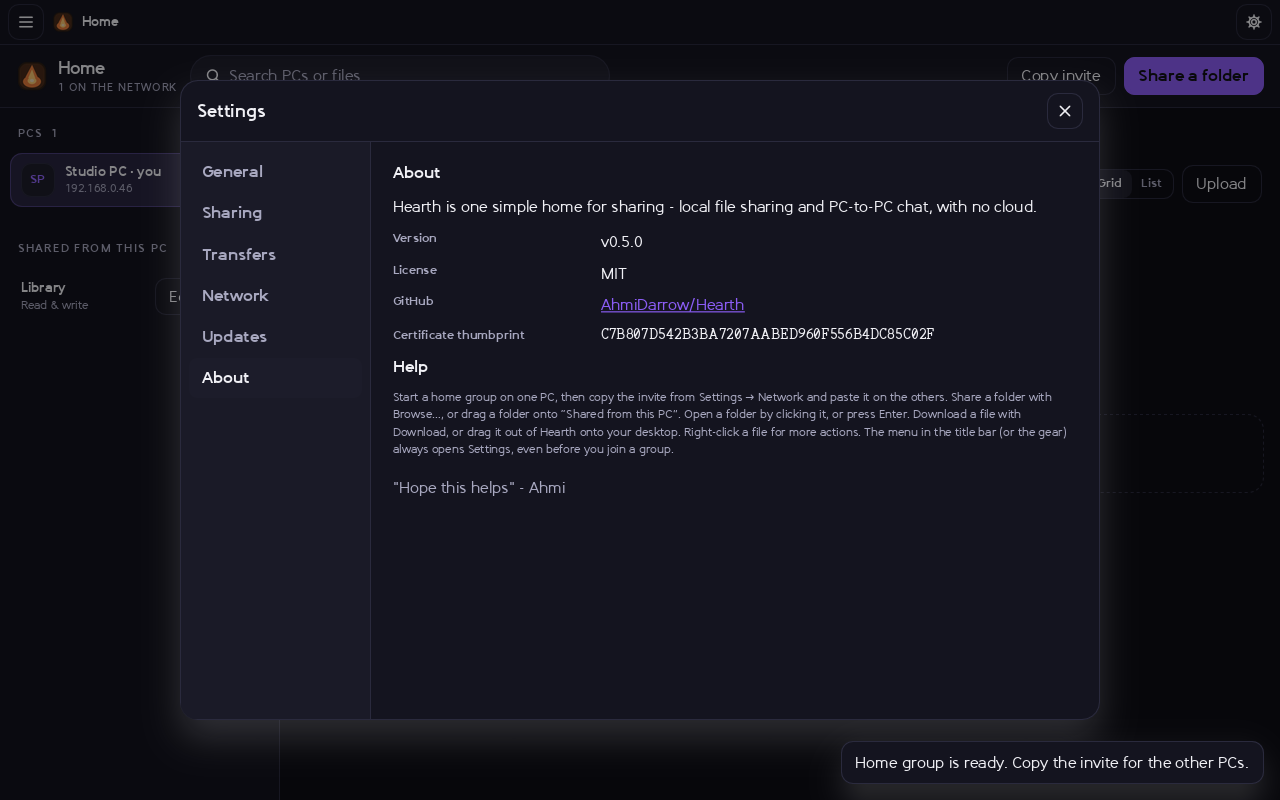
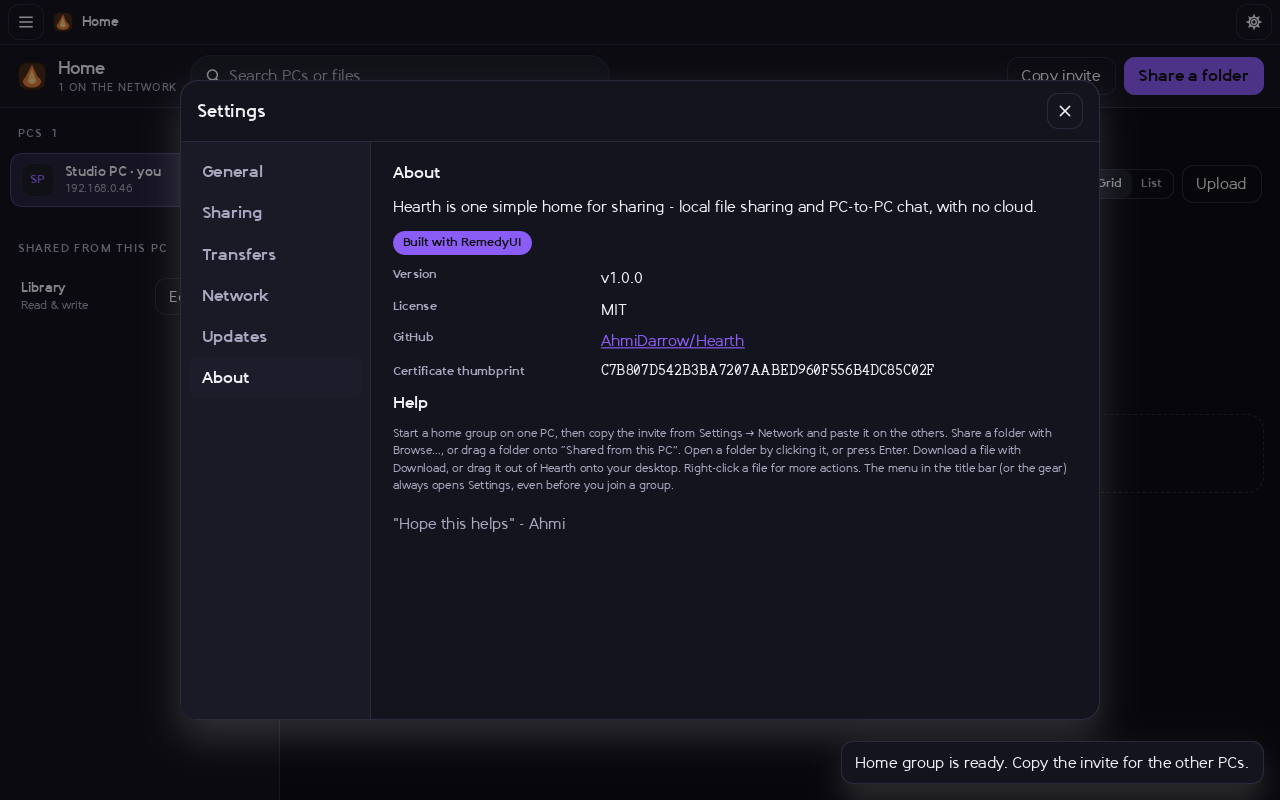
README for Hearth 1.0, and a Built with RemedyUI badge on it and in About
The README described the Python app: a WebView2 window, PyInstaller, running from source in
a browser. It now says what 1.0 is (the native program on RemedyUI, with its own section and
badge), how Defender treats the 0.x builds and what to do when it removes one, how 0.x
updates to 1.0, and how to build and release from rust/. Its two pictures are 1.0's.

Settings, About shows the same badge, in all eleven languages.

Changed region(s): [[0.2812, 0.2812, 0.8438, 0.625]]

diff --git a/rust/hearth/src/look.rs b/rust/hearth/src/look.rs
@@ -567,6 +567,13 @@ pub fn sheet(t: &Theme) -> StyleSheet {
         p().padding(sides(12.0, 18.0, 16.0, 18.0))
             .border_side(BorderEdge::Top, under(line)),
     );
+    // The "Built with RemedyUI" badge in About: a pill in the accent, as on the README.
+    rule(
+        "badge",
+        None,
+        States::NONE,
+        p().padding(pad(4.0, 10.0)).text_size(12.0).weight(700.0),
+    );
     // .bar
     rule(
         "progress",

diff --git a/rust/hearth/src/settings.rs b/rust/hearth/src/settings.rs
@@ -1032,6 +1032,8 @@ fn about(h: &H, ui: &Ui) -> El {
                 ),
             )
             .line_height(remedy_ui::style::LineHeight::Relative(1.5)),
+            // What Hearth is made with, as its page on GitHub says.
+            own_width(ui, w::badge(ui, t(ui, "Built with RemedyUI"))),
             w::column(ui)
                 .gap(10.0)
                 .fill_width()

diff --git a/README.md b/README.md
@@ -2,6 +2,8 @@
 
 [![Latest release](https://img.shields.io/github/v/release/AhmiDarrow/Hearth)](https://github.com/AhmiDarrow/Hearth/releases/latest)
 [![License: MIT](https://img.shields.io/github/license/AhmiDarrow/Hearth)](LICENSE)
+[![Platform](https://img.shields.io/badge/platform-Windows-0078D6)](https://github.com/AhmiDarrow/Hearth/releases/latest)
+[![Built with RemedyUI](https://img.shields.io/badge/built%20with-RemedyUI-8A2BE2)](#built-with-remedyui)
 
 **Hearth is one simple home for sharing** — local folder sharing and PC-to-PC chat, with no cloud and almost no setup.
 
@@ -9,29 +11,45 @@ Windows HomeGroup made it boringly easy to share Pictures and Documents across t
 
 [Download HearthSetup.exe](https://github.com/AhmiDarrow/Hearth/releases/latest/download/HearthSetup.exe) · [All releases](https://github.com/AhmiDarrow/Hearth/releases)
 
-![Two PCs sharing a folder in Hearth](docs/hearth-two-pcs.png)
+<p align="center">
+  <strong>Built with <a href="#built-with-remedyui">RemedyUI</a></strong>: one native Rust program, from the pixels to the peer protocol.
+</p>
 
-<p align="center"><em>Living-room and Office on the same hearth, browsing a shared folder.</em></p>
+![A shared folder in Hearth](docs/hearth-files-dark.png)
+
+<p align="center"><em>A shared folder on this PC: the PCs in the house on the left, its files as cards.</em></p>
 
 ![The same files view in light mode](docs/hearth-files-light.png)
 
 <p align="center"><em>Themes match RemedyAI. Light mode follows Windows, or pick a palette in Settings.</em></p>
 
+## Built with RemedyUI
+
+Since 1.0, Hearth runs on **RemedyUI**, Ahmi Darrow's own Rust UI engine. The window, the file grid, the tray, text rendering, accessibility, the eleven languages and the signed updater all come from RemedyUI, so the whole app is one native program:
+
+- **No web view, no browser engine, no Python.** The 0.x releases were a Python app that drew a local web page in an Edge WebView2 window; 1.0 replaced all of it. Setup is about 19 MB and installs a single `Hearth.exe`.
+- **The same Hearth.** Every screen is what the 0.x app drew, and 1.0 speaks the same protocol and keeps the same profile, so a house can mix 0.3, 0.4 and 1.0 PCs, and updating loses nothing.
+- **Same engine as [SecretFolder](https://github.com/AhmiDarrow/SecretFolder)**, [SecretSticky](https://github.com/AhmiDarrow/SecretSticky) and [Alex's Craft Calc](https://github.com/AhmiDarrow/Alexs-Craft-Calc).
+
+RemedyUI is not public yet.
+
 ## Features
 
-- One-click Windows installer — no Python, no scripts, no git
+- One-click Windows installer — no runtime to install, no scripts, no git
 - Create a home group or join one already on the LAN with just the password
 - Invite codes as a fallback when a second router hides broadcasts
 - Share Documents, Pictures, or any folder: **Browse…** opens the Windows folder picker, or type a path, pick a library, or drop a folder on the window
-- Edit a share at any time: rename it, **Browse…** to a new folder, switch read-only vs read & write, or unshare
+- Edit a share at any time: rename it, **Browse…** to a new folder, switch read-only vs read & write, or unshare (Hearth asks first)
 - Browse another PC, download in the background, or drag files onto a writable folder
-- Drag files out of Hearth onto the desktop or File Explorer (Windows)
+- Drag files out of Hearth onto the desktop or File Explorer
 - Transfers show speed and time remaining; **Clear downloads** (or the × on a finished item) removes completed, failed, and canceled rows without deleting files
 - Optional download and upload speed limits in Settings → Transfers (Unlimited by default)
-- House chat, stored locally on each PC
-- System tray app with an Edge WebView2 window (falls back to the browser)
+- House chat, stored locally on each PC, with private messages to one PC that is online
+- System tray app with its own native window
 - Always-visible menu and Settings (General, Sharing, Transfers, Network, Updates, About) with immediate apply and reset to defaults
 - RemedyAI color themes in Settings — System, Light, Dark, and the same palettes used in RemedyAI, including Dark Forest
+- A choice of typeface in Settings → General → Font: Remedy Sans UI, Remedy Sans, Ahmi Print or Ahmi Pixel
+- Eleven languages, switched live in Settings
 - Auto-update from GitHub Releases, verified with SHA-256 and the Hearth publisher thumbprint
 - Built for homes that have a second router, not only a single subnet
 
@@ -46,32 +64,32 @@ Every home PC needs its own copy.
 
 Hearth lives in the system tray. Closing the window hides it; **Quit** from the tray icon exits fully. Open it later from the Start Menu, the desktop shortcut, or the tray. It starts when you sign in.
 
-### Windows Defender and earlier builds
+### Windows Defender and the 0.x builds
 
-Windows Defender flagged some **v0.3.1** and **v0.3.2** installs as a Trojan. That was a **false positive**: a behavioral heuristic against a self-signed PyInstaller app that used a Registry Run key for autostart and could silently launch a downloaded updater. Those releases have been taken down.
+Windows Defender has flagged the **0.x** builds as a Trojan more than once (`Trojan:Win32/Bearfoos.A!ml` and similar). Those were **false positives**: a machine-learning verdict against a self-signed app packaged with PyInstaller. A copy that ran fine for weeks can be removed after a Defender definitions update.
 
-**If Defender quarantined Hearth on your PC, the in-app updater cannot run.** Uninstall the old copy (or remove the quarantined files), then install **v0.3.3 or later** from the [latest release](https://github.com/AhmiDarrow/Hearth/releases/latest). Installing the new setup over an older Hearth is fine; it also removes the old Run-key autostart.
+**If Defender removed Hearth from your PC, the in-app updater cannot run.** Download [HearthSetup.exe](https://github.com/AhmiDarrow/Hearth/releases/latest/download/HearthSetup.exe) from the latest release and run it. Installing it over what is left of the old copy is fine, and your home group, shares and chat are kept (they live in `%USERPROFILE%\.hearth`, not in the program folder).
 
-Starting with v0.3.3, Hearth is built with a from-source PyInstaller bootloader, a full version resource, Startup-folder autostart instead of a Run key, and a consent-based updater. CI scans both `Hearth.exe` and `HearthSetup.exe` with Microsoft Defender and runs the app under real-time protection before a release is published.
+Hearth 1.0 is a native program with no PyInstaller in it. Before a release is published, `Hearth.exe` and `HearthSetup.exe` are scanned with Microsoft Defender and the app is run under real-time protection.
 
 ## First-run setup
 
 1. This PC’s name is pre-filled from the computer name — change it if you want.
 2. On the first PC, click **Start a home group**. Hearth generates a group password (or you can choose one).
 3. Install Hearth on the next PC. If the first one is already running on the same LAN, the new PC offers **Join Home on [that PC]**. Type the group password and click **Join**.
-4. If the other PC is not detected (a second router often causes this), open **I have an invite** on the first PC, copy the invite, and paste it on the second PC.
+4. If the other PC is not detected (a second router often causes this), copy the invite on the first PC (**Copy invite**, or Settings → Network), open **I have an invite** on the second PC, and paste it.
 5. Click **Share a folder**, then **Browse…** to pick a folder with the Windows folder picker (you can also type a path, pick a library, or drop a folder onto the window). Click **Share this folder** once to share it.
 
-The hamburger menu and gear in the title bar open **Settings** at any time, including before you join a group. The tray icon has the same items: Open, Settings, Check for updates, About, and Quit.
+The menu and the gear in the title bar open **Settings** at any time, including before you join a group. The tray icon has the same items: Open, Settings, Check for updates, About, and Quit.
 
 ## Sharing and drag-and-drop
 
 - PCs in the group show up in the left sidebar. Click one to see its shared folders.
 - Double-click a folder to open it. Breadcrumbs, Back, and Forward work like File Explorer. Ctrl-click or Shift-click to select more than one file; right-click for Download, Open, Copy path, or Unshare.
-- Click **Download** to save selected files to your default download folder (Downloads, unless you change it in Settings → Sharing). Progress, speed, and time remaining appear in the transfer panel. **Clear downloads** (or the × on a finished item) removes completed, failed, and canceled rows from the list — it never deletes the files on disk or stops a transfer that is still running. Optional download and upload speed limits live in Settings → Transfers (Unlimited by default). The window is never replaced by a download page.
-- Drop files or folders from Explorer onto a writable share to upload them, or drop a folder onto **Shared from this PC** to share it (when Windows gives Hearth the folder path). You can also drop files onto another PC in the sidebar if that PC has a writable share.
-- On Windows, drag a file *out* of Hearth onto the desktop or File Explorer to copy it. Remote files are downloaded first; drag again once the transfer finishes.
-- Switch between a Finder-style grid and a list with the **Grid** / **List** buttons.
+- Click **Download** to save selected files to your default download folder (Downloads, unless you change it in Settings → Sharing). Progress, speed, and time remaining appear in the transfer panel. **Clear downloads** (or the × on a finished item) removes completed, failed, and canceled rows from the list — it never deletes the files on disk or stops a transfer that is still running. Optional download and upload speed limits live in Settings → Transfers (Unlimited by default).
+- Drop files from Explorer onto a writable share to upload them, or drop a folder onto **Shared from this PC** to share it. You can also drop files onto another PC in the sidebar if that PC has a writable share. Hearth sends files, not folders: open the folder and drop the files inside it.
+- Drag a file *out* of Hearth onto the desktop or File Explorer to copy it. Remote files are downloaded first; drag again once the transfer finishes.
+- Switch between a grid of cards and a list with the **Grid** / **List** buttons. Hearth remembers which you chose.
 - Shares you publish on this PC are listed under **Shared from this PC**. Click **Edit** to rename a share, **Browse…** to a different folder, change read-only vs read & write, or remove it. Changes apply immediately.
 
 ## Sub-routers and firewall
@@ -80,7 +98,7 @@ Confirm the Wi-Fi or Ethernet is set to a **Private** network (Windows Settings 
 
 | Item | What the installer sets |
 | --- | --- |
-| Windows Defender Firewall | Not changed by a per-user install (no administrator prompt). On a **Private** network, Windows may ask you to allow TCP **7474** (UI, files, chat) and UDP **45454** (discovery). |
+| Windows Defender Firewall | Not changed by a per-user install (no administrator prompt). On a **Private** network, Windows may ask you to allow TCP **7474** (files and chat) and UDP **45454** (discovery). |
 | Autostart | A Startup-folder shortcut starts `Hearth.exe --background` at sign-in (tray only). Upgrades also remove any leftover Run-key entry from older versions. |
 | Start Menu and desktop | Shortcuts named **Hearth** |
 | Uninstall | Standard Apps & Features / Installed apps entry |
@@ -92,14 +110,14 @@ A second router in the house is the usual catch:
 | Second box is already an access point (same 192.168.x) | Do nothing. Beacons and the invite handshake find everyone. |
 | Second box is a router (for example main 192.168.1.x, rooms 192.168.0.x) | Paste the invite (it includes IPs). The inner PC can usually reach the outer PC. If the outer PC cannot browse the inner PC’s folders, port-forward TCP 7474 and UDP 45454 on the inner router, or put that router in access-point mode. |
 | Chat works one way but files from the main LAN cannot open a bedroom PC | Same NAT issue as above. Chat will catch up because members pull messages from PCs they can reach. Folder browse needs a direct connection or a port forward. |
-| One PC can ping both sides | Turn on **Bridge discovery across subnets** on that PC (Settings). |
+| One PC can ping both sides | Turn on **Bridge discovery across subnets** on that PC (Settings → Network). |
 | Windows firewall prompt | Allow Hearth on private networks. Port 7474 TCP and 45454 UDP. |
 
 The most reliable long-term fix is still to set the second router to access-point mode so the house is one LAN. Hearth works either way.
 
 ## Trusting the publisher certificate
 
-Each release includes the public certificate `Hearth.cer` and a `SHA256SUMS.txt` file. CI uses the matching private certificate (stored only as GitHub Actions secrets) to Authenticode-sign `Hearth.exe`, the uninstaller, and `HearthSetup.exe`.
+Each release includes the public certificate `Hearth.cer` and a `SHA256SUMS.txt` file. The release workflow uses the matching private certificate (stored only as GitHub Actions secrets) to Authenticode-sign `Hearth.exe`, the uninstaller, and `HearthSetup.exe`.
 
 Trusting the publisher on a home PC does **not** install a root CA, and it will **not** silence SmartScreen for a brand-new download. It does help Windows recognize later Hearth updates signed with the same certificate, so they should no longer show “Unknown publisher.”
 
@@ -111,13 +129,15 @@ Or tick **Trust the Hearth publisher certificate** in the installer, or run `tru
 
 ## Auto-update
 
-Installed copies check this repository’s [GitHub Releases](https://github.com/AhmiDarrow/Hearth/releases) (including prereleases) on startup and every few hours, and from **Settings → Updates** or **Check for updates** in the app or tray menu.
+Installed copies check this repository’s [GitHub Releases](https://github.com/AhmiDarrow/Hearth/releases) (including prereleases) shortly after startup and every few hours, and from **Settings → Updates** or **Check for updates** in the app or tray menu.
 
-When a newer version is found, Hearth notifies you. Click **Install update** to download `HearthSetup.exe`, verify it against `SHA256SUMS.txt` and the publisher certificate thumbprint (`C7B807D542B3BA7207AABED960F556B4DC85C02F`), and apply it. A small in-app progress bar shows the download, then “Installing…”. Hearth closes itself, runs the official installer fully hidden (`/VERYSILENT`, per-user, no UAC, no installer window), and relaunches in the same window or tray state. Your settings, shares, peers, chat, and downloads are untouched: they live in `%USERPROFILE%\.hearth`, outside the install folder, and the installer never writes there. The certificate is self-signed, so Windows may report the signature as not trusted; Hearth still accepts it when the thumbprint matches and the file hash is intact. Automatic checks only notify — they never install until you click Install update. Automatic checks only run in the packaged Windows app. Set `HEARTH_NO_UPDATE=1` to disable checks (used by tests).
+When a newer version is found, Hearth tells you in a strip at the top of the window. Click **Install update** to download `HearthSetup.exe`, verify it against `SHA256SUMS.txt` and the publisher certificate thumbprint (`C7B807D542B3BA7207AABED960F556B4DC85C02F`), and apply it. The strip shows the download, then “Installing…”. Hearth closes itself, installs in the background with no installer window, and reopens the way it was (window or tray) with your data intact.
 
-If the in-app updater cannot finish (a network error or a signature check that cannot be completed), it does not fail silently: you get a clear message, and a user-initiated check or Install update opens the [latest release page](https://github.com/AhmiDarrow/Hearth/releases/latest) so you can install by hand.
+If the in-app updater cannot finish (a network error or a signature check that cannot be completed), it does not fail silently: you get a clear message, and the release page opens so you can install by hand.
 
-**Upgrading from v0.3.4:** the updater in v0.3.4 (and the short-lived v0.3.5 / v0.3.6 builds, which are no longer published) cannot read that thumbprint on 64-bit Windows, so in-app Install update will keep being rejected. Quit Hearth from the tray, download [HearthSetup.exe](https://github.com/AhmiDarrow/Hearth/releases/latest/download/HearthSetup.exe), and run the wizard once. Later auto-updates work from v0.3.7 on.
+**Updating from 0.x:** Hearth 0.3.8 and later update themselves to 1.0 the same way. From 0.3.7 or earlier, or if Defender removed your copy, quit Hearth from the tray, download [HearthSetup.exe](https://github.com/AhmiDarrow/Hearth/releases/latest/download/HearthSetup.exe) and run it once by hand.
+
+From a script, `Hearth.exe --install-update` looks for an update now and installs it without asking again, and `Hearth.exe --quit` closes the Hearth that is running.
 
 ## Uninstall
 
@@ -131,7 +151,7 @@ Data under `%USERPROFILE%\.hearth` (group state, device key, chat history) is le
 The official build is self-signed. Choose **More info** → **Run anyway**. See [Trusting the publisher certificate](#trusting-the-publisher-certificate).
 
 **Windows Defender said Hearth is a trojan.**  
-That happened on some v0.3.1 and v0.3.2 installs (a false positive). Those builds are no longer published. If your copy was quarantined, it will not auto-update — download [the latest release](https://github.com/AhmiDarrow/Hearth/releases/latest) and reinstall. See [Windows Defender and earlier builds](#windows-defender-and-earlier-builds).
+That is a false positive against the 0.x builds. If your copy was removed, it cannot update itself: download [the latest release](https://github.com/AhmiDarrow/Hearth/releases/latest) and install it. See [Windows Defender and the 0.x builds](#windows-defender-and-the-0x-builds).
 
 **The other PC does not show up.**  
 Make sure both PCs are on a **Private** network, Hearth is running on each (check the tray), and they joined the same group. If there is a second router, paste an invite or use Bridge mode. See [Sub-routers and firewall](#sub-routers-and-firewall).
@@ -140,55 +160,52 @@ Make sure both PCs are on a **Private** network, Hearth is running on each (chec
 The other PC is probably behind NAT. Port-forward TCP 7474 and UDP 45454, or set that router to access-point mode.
 
 **A second copy of Hearth opened instead of focusing the first.**  
-Hearth only runs once per user profile. A second launch (Start menu, shortcut, or a file/URL/invite argument) forwards those arguments to the running copy, brings its window to the front (even if it was hidden in the tray), and exits. If a second window still appears, fully **Quit** from the tray and start it again, then please open an issue.
+Hearth only runs once per profile. A second launch (Start menu, shortcut, or an invite passed to it) hands over to the running copy, brings its window to the front (even if it was hidden in the tray), and exits. If a second window still appears, fully **Quit** from the tray and start it again, then please open an issue.
 
-**In-app update says the installer is not Authenticode-signed, but I downloaded it from this repo.**  
-That happened on v0.3.4 (and the withdrawn v0.3.5 / v0.3.6 builds) on 64-bit Windows. Install [the latest release](https://github.com/AhmiDarrow/Hearth/releases/latest) once by hand; from v0.3.7 the updater reads the publisher thumbprint correctly. If a later check cannot finish, Hearth opens the release download page instead of failing silently.
+**Can PCs on 0.4 and 1.0 share the same home group?**  
+Yes. 1.0 speaks the same protocol as 0.3 and 0.4, so a house can update one PC at a time.
 
 **How do I turn off auto-update?**  
-Uncheck **Check for updates automatically** in Settings → Updates, or set `HEARTH_NO_UPDATE=1` for the Hearth process. Install still requires your click. There is no cloud channel other than GitHub Releases.
+Uncheck **Check for updates automatically** in Settings → Updates, or set `HEARTH_NO_UPDATE=1` for the Hearth process. Installing still requires your click. There is no cloud channel other than GitHub Releases.
 
 **I cannot find Settings or Updates.**  
-Open the hamburger menu or the gear in the title bar, or right-click the tray icon and choose Settings. Those controls are always shown, including on the first-run screen and in a small window.
+Open the menu or the gear in the title bar, or right-click the tray icon and choose Settings. Those controls are always shown, including on the first-run screen and in a small window.
 
 **Does this work on macOS or Linux?**  
-You can run from source (see below) and use the browser UI. The one-click installer, tray app, and Authenticode updates are Windows-only today.
+The released app is for Windows. The engine and the interface also build for Linux from source, but there is no Linux or macOS release.
 
 **Is my data uploaded somewhere?**  
 No. Discovery, file transfers, and chat stay on your network. The only outbound check is the optional look at GitHub Releases for updates.
 
 ## Building from source
 
-Python 3.11 or newer. The Windows installer is built in GitHub Actions (`windows-latest`) with PyInstaller and Inno Setup; developers can still run the app directly:
+Hearth 1.0 and later is the Rust workspace in `rust/`: `hearth-core` (home groups, discovery, the peer protocol, shares, transfers, chat) and `hearth` (the interface, on RemedyUI). RemedyUI is not public yet, so building needs a checkout of it: `rust/hearth/Cargo.toml` looks for it in a `Projects/RemedyUI` folder beside the folder that holds this repository.
 
 ```bash
 git clone https://github.com/AhmiDarrow/Hearth.git
-cd Hearth
-python3 -m venv .venv
-source .venv/bin/activate   # Windows: .venv\Scripts\activate
-pip install -r requirements.txt
-python3 -m hearth
+cd Hearth/rust
+cargo test --workspace
+cargo run --release -p hearth
 ```
 
-Open http://127.0.0.1:7474
-
-The `install.cmd` / `install.ps1` scripts are a developer fallback if you want a Start Menu shortcut and firewall rules without the Setup EXE.
-
-Two copies on one machine (for a dry run):
+Two copies on one machine (for a dry run), each with its own profile and port:
 
 ```bash
-HEARTH_HOME=/tmp/hearth-a HEARTH_PORT=7474 python3 -m hearth --no-browser
-HEARTH_HOME=/tmp/hearth-b HEARTH_PORT=7475 python3 -m hearth --no-browser
+Hearth.exe --home C:\temp\hearth-a --port 7474
+Hearth.exe --home C:\temp\hearth-b --port 7475
 ```
 
-Join B using A’s invite. If the invite has no loopback address, add `127.0.0.1:7474` as a host on B. The join handshake does not depend on the shared UDP beacon port.
+Join B using A’s invite. If the invite has no loopback address, add `127.0.0.1:7474` as an extra host on B (Settings → Network).
 
-```bash
-pip install pytest
-python -m pytest
-```
+| Path | What it is |
+| --- | --- |
+| `rust/` | The app (1.0+) |
+| `hearth/` | The 0.x Python app. Its language catalogs (`hearth/locales`) and house mark are the ones 1.0 ships, and the Rust tests run 1.0 against it to prove the two still work together |
+| `pack/` | Setup (`hearth.iss`), `build-release.ps1`, and the release checks |
+| `tests/` | Python tests for the 0.x app and for the release checks (`python -m pytest`) |
+| `PORT-CHECKLIST.md`, `port-evidence/` | Everything the 0.x interface did, ticked off against 1.0, with the same screens before and after |
 
-The app version lives in one place: `hearth/__init__.py` (`__version__`). The installer and release tag are derived from that string.
+The version lives in one place: `rust/Cargo.toml`. A release is built with `pwsh pack\build-release.ps1 -Upload` (the Rust tests, then the program, uploaded unsigned to a draft release). The **Windows installer** workflow then signs it, builds `HearthSetup.exe`, and installs and updates it for real on GitHub's machines (fresh, over 0.3.8, and 0.3.8, 0.3.15, 0.4.0 and 1.0 updating themselves) before the signed files go on the draft.
 
 State lives in `%USERPROFILE%\.hearth` on Windows (`~/.hearth` on other systems): `state.json`, `device.key`, `inbox/`.
 
@@ -197,6 +214,7 @@ State lives in `%USERPROFILE%\.hearth` on Windows (`~/.hearth` on other systems)
 - Group password → PBKDF2-HMAC-SHA256 (210k iterations) → 32-byte group key
 - Discovery packets and peer HTTP calls carry an HMAC of the group id
 - Each install has an Ed25519 device identity under `~/.hearth/device.key`
+- Hearth serves the other PCs in the group only: there is no local web page or local API to reach
 - This is home-network security, not a substitute for full-disk encryption or a VPN on a hostile LAN
 - Do not reuse the hearth password on the public internet
 
